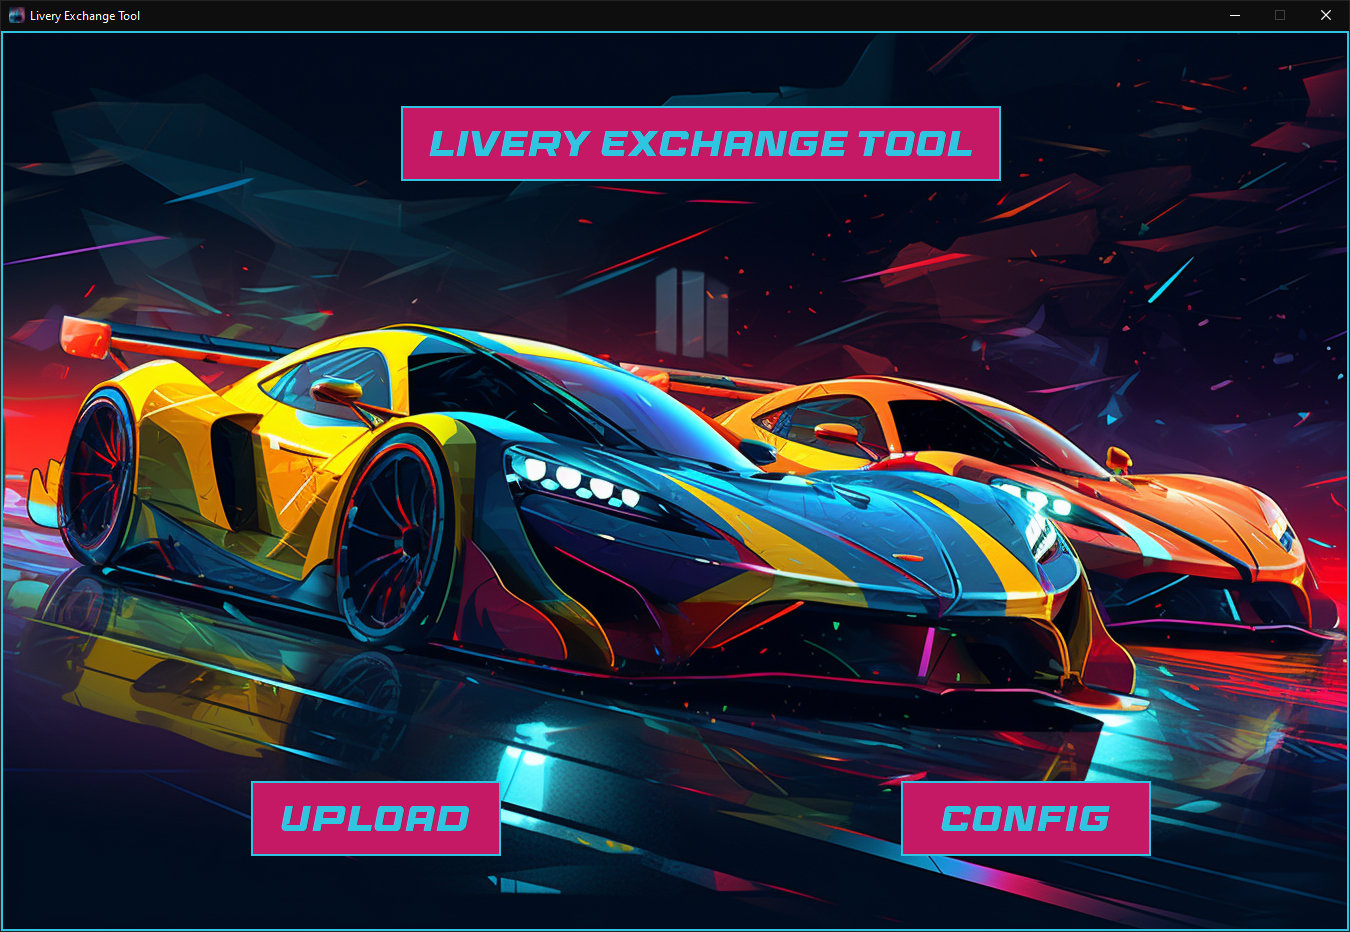
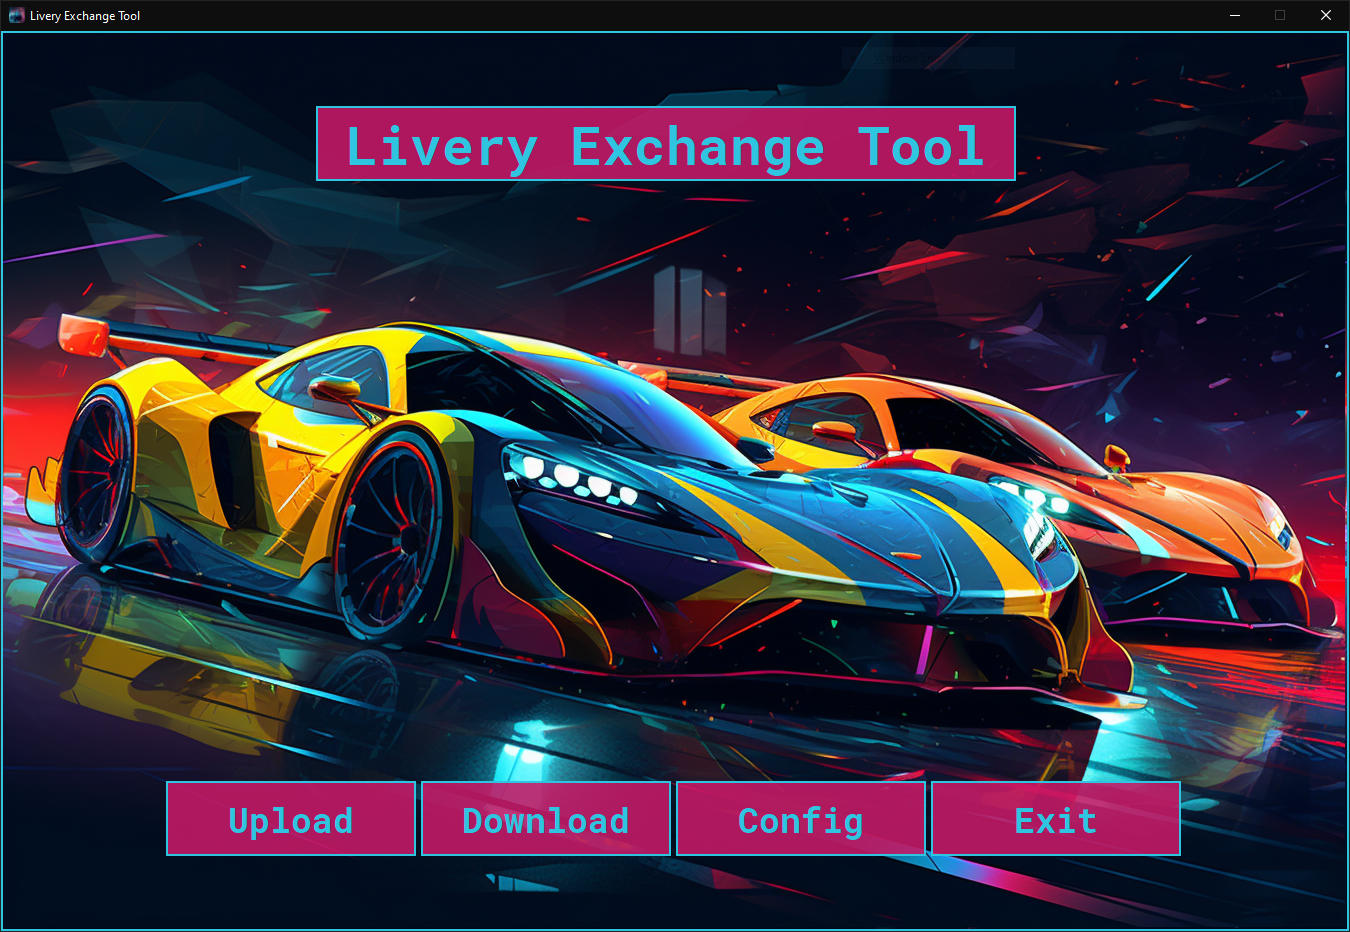
thumb update

diff --git a/gui/main_window.py b/gui/main_window.py
@@ -75,7 +75,7 @@ class MainWindow(QMainWindow):
         self.upload_button.setFont(self.font_big)
         self.upload_button.setToolTip("Upload your livery files.")
         self.upload_button.setStyleSheet(self.style_sheet)
-        self.upload_button.move(160, 750)
+        self.upload_button.move(165, 750)
         self.upload_button.resize(250, 75)
         self.upload_button.pressed.connect(self.upload_clicked)
 
@@ -93,7 +93,7 @@ class MainWindow(QMainWindow):
         self.server_button.setFont(self.font_big)
         self.server_button.setToolTip("Configure Exchange Server.")
         self.server_button.setStyleSheet(self.style_sheet)
-        self.server_button.move(680, 750)
+        self.server_button.move(675, 750)
         self.server_button.resize(250, 75)
         self.server_button.pressed.connect(self.server_conf)
 
@@ -102,7 +102,7 @@ class MainWindow(QMainWindow):
         self.exit_button.setFont(self.font_big)
         self.exit_button.setToolTip("Exit Application")
         self.exit_button.setStyleSheet(self.style_sheet)
-        self.exit_button.move(940, 750)
+        self.exit_button.move(930, 750)
         self.exit_button.resize(250, 75)
         self.exit_button.pressed.connect(self.exit_clicked)
 
